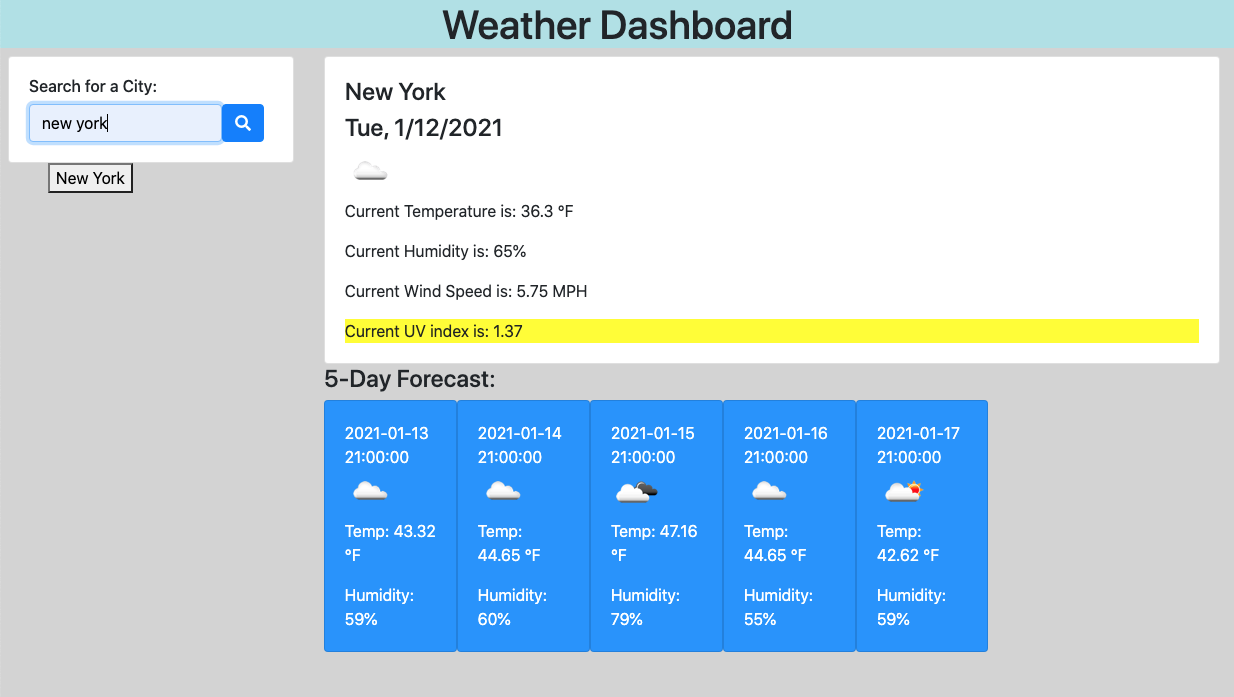
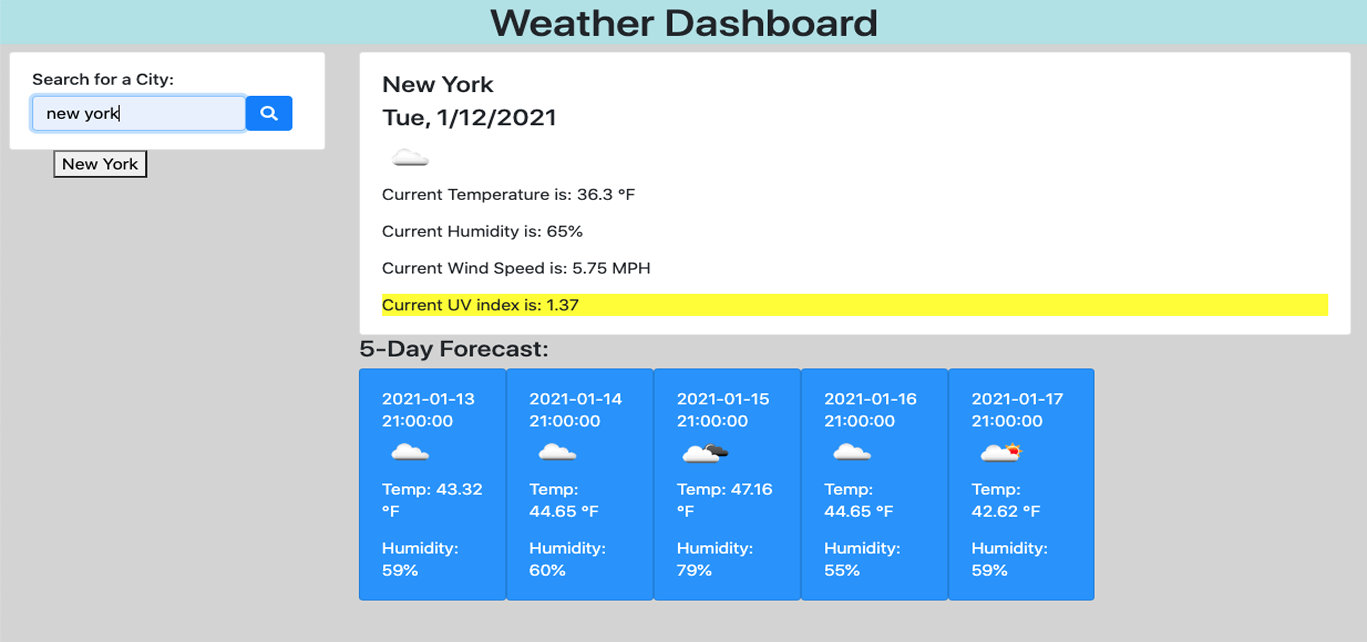
updated carousel pics with optimized reSized images to 1367x642 per bootstrap suggestion for best viewing

diff --git a/pages/portfolio.html b/pages/portfolio.html
@@ -134,42 +134,42 @@
     </ol>
     <div class="carousel-inner">
       <div class="carousel-item active">
-        <img src="../img/st-pic-1.png" class="d-block w-100" alt="...">
+        <img src="../img/st-pic-1_1367x642.png" class="d-block w-100" alt="...">
         <div class="carousel-caption d-none d-md-block">
           <h5></h5>
           <p></p>
         </div>
       </div>
       <div class="carousel-item">
-        <img src="../img/portfolio-iSeePets-pic-1.png" class="d-block w-100" alt="...">
+        <img src="../img/portfolio-iSeePets-pic-1_1367x642.png" class="d-block w-100" alt="...">
         <div class="carousel-caption d-none d-md-block">
           <h5></h5>
           <p></p>
         </div>
       </div>
       <div class="carousel-item">
-        <img src="../img/portfolio-weatherDashboard-pic-1.png" class="d-block w-100" alt="...">
+        <img src="../img/portfolio-weatherDashboard-pic-1_1367x642.png" class="d-block w-100" alt="...">
         <div class="carousel-caption d-none d-md-block">
           <h5></h5>
           <p>Praesent</p>
         </div>
       </div>
       <div class="carousel-item">
-        <img src="../img/portfolio-workDayScheduler-pic-1.png" class="d-block w-100" alt="...">
+        <img src="../img/portfolio-workDayScheduler-pic-2_1367x642.png" class="d-block w-100" alt="...">
         <div class="carousel-caption d-none d-md-block">
           <h5></h5>
           <p></p>
         </div>
       </div>
       <div class="carousel-item">
-        <img src="../img/portfolio-passwordGenerator-pic-1.png" class="d-block w-100" alt="...">
+        <img src="../img/portfolio-passwordGenerator-pic-1_1367x642.png" class="d-block w-100" alt="...">
         <div class="carousel-caption d-none d-md-block">
           <h5></h5>
           <p></p>
         </div>
       </div>
       <div class="carousel-item">
-        <img src="../img/portfolio-codeQuiz-pic-1.png" class="d-block w-100" alt="...">
+        <img src="../img/portfolio-codeQuiz-pic-1_1367x642.png" class="d-block w-100" alt="...">
         <div class="carousel-caption d-none d-md-block">
           <h5></h5>
           <p>Praesent</p>
